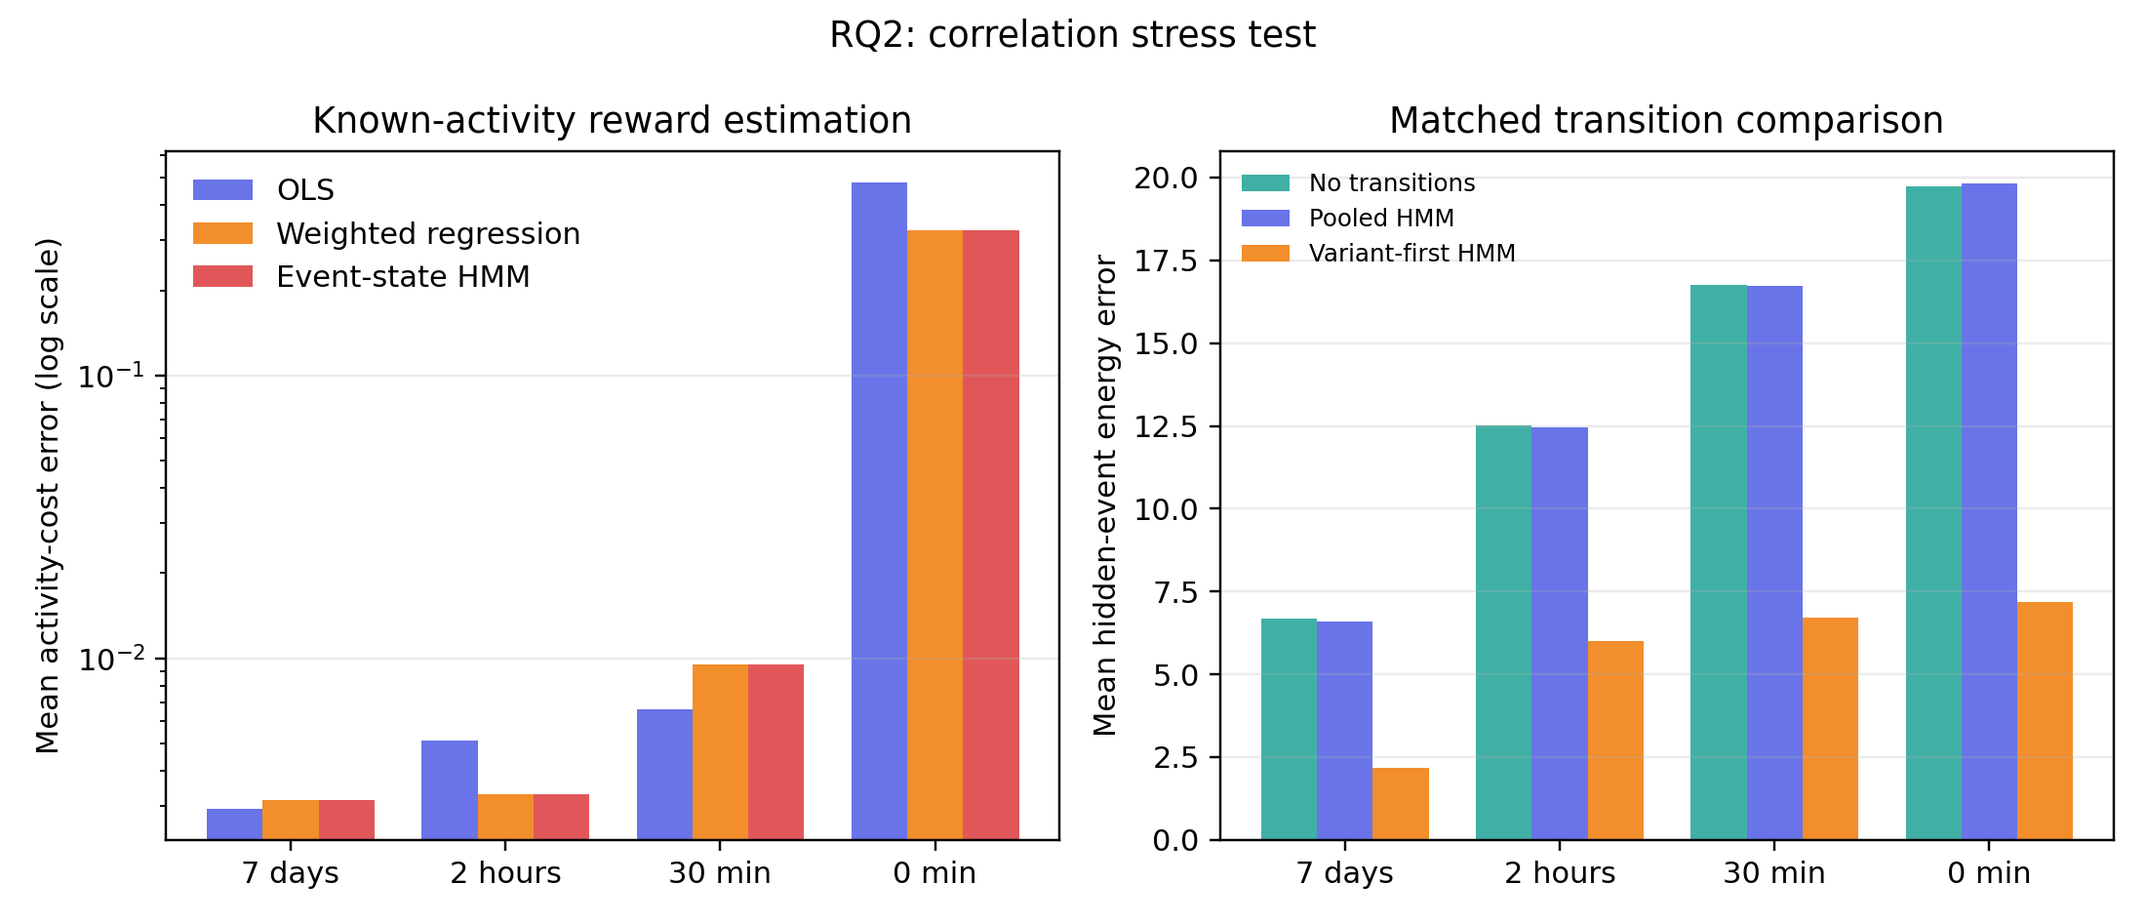
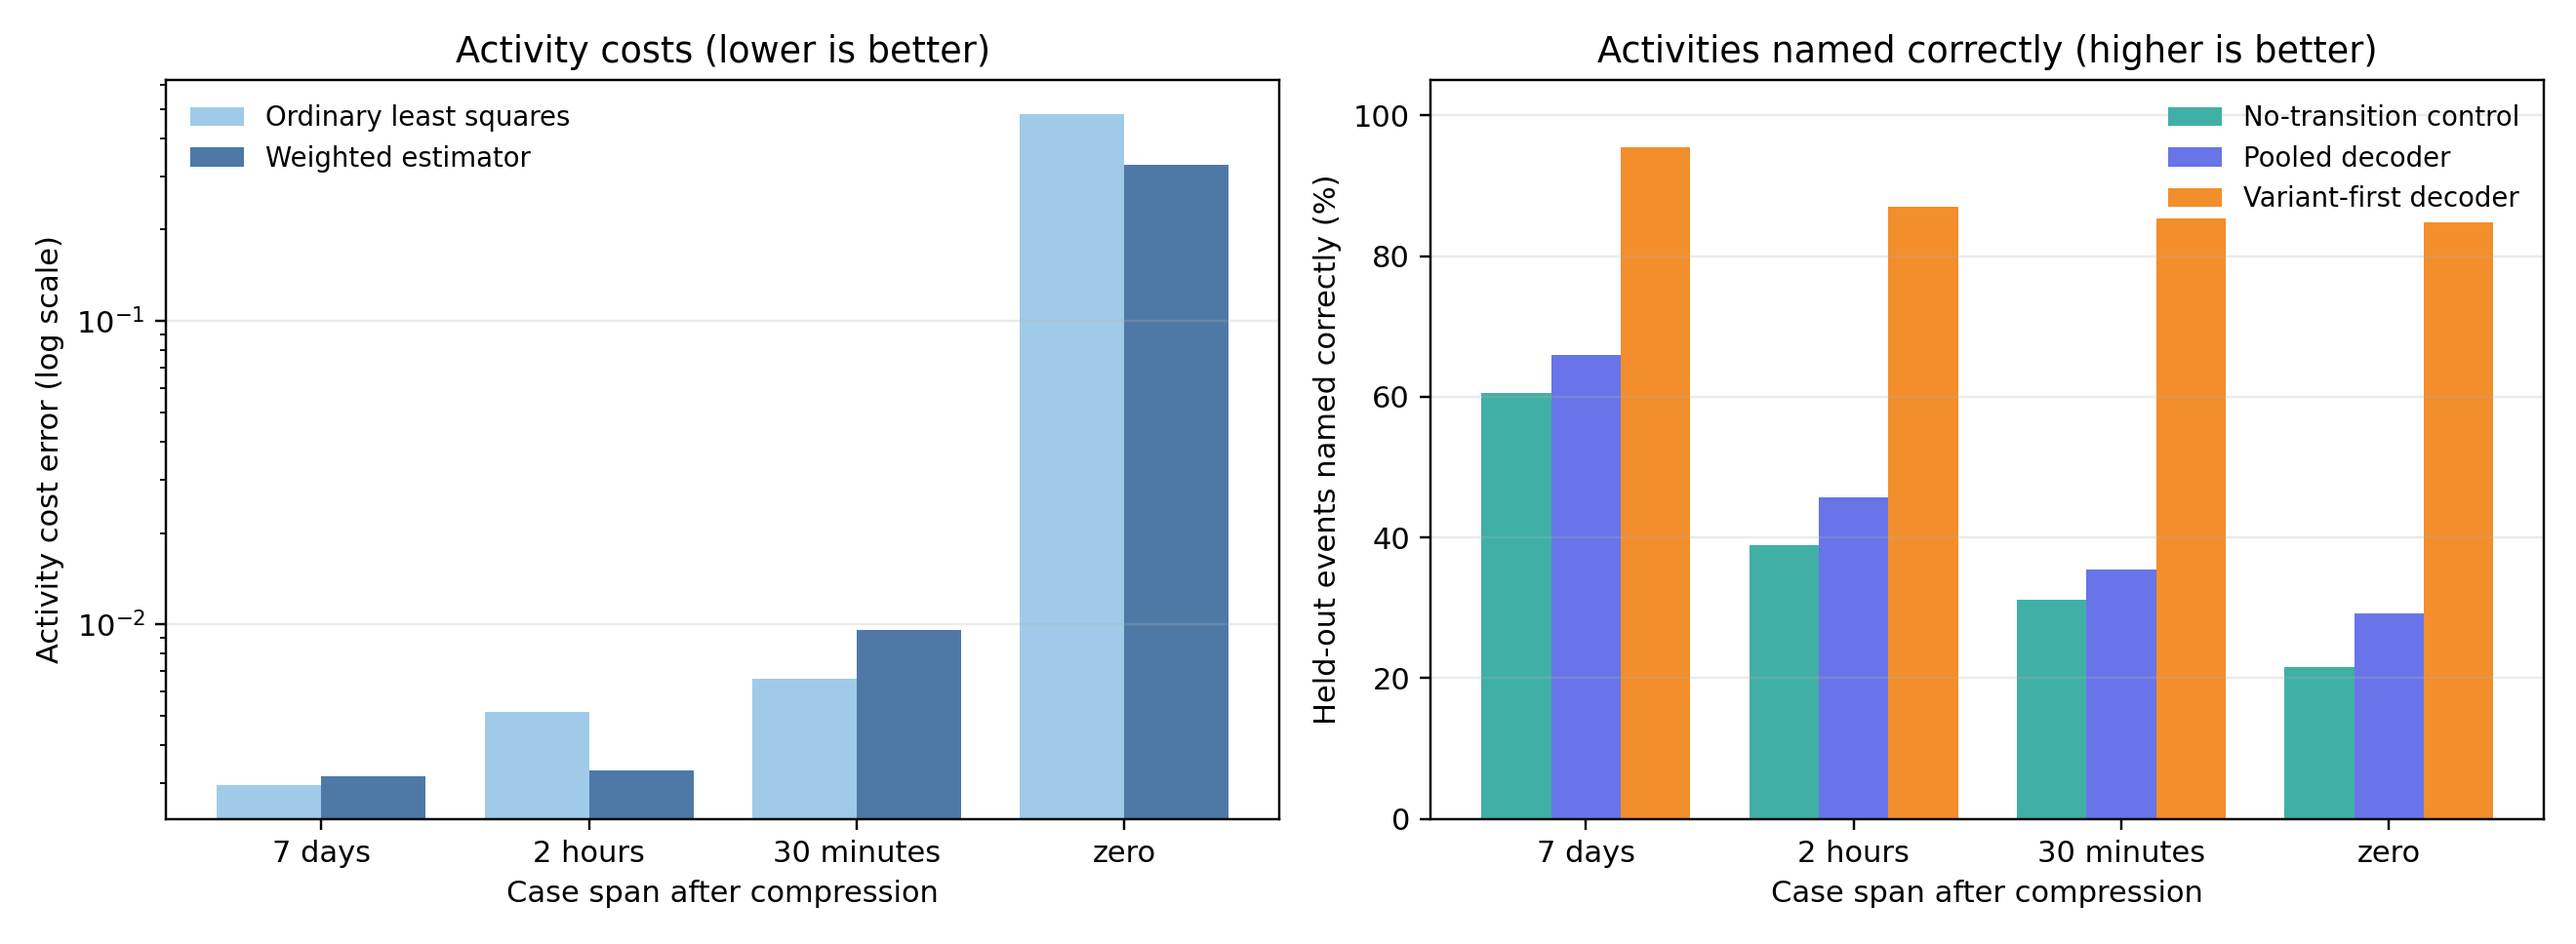
Redraw the stress test figure with costs and named activities

diff --git a/plot_results.py b/plot_results.py
@@ -95,53 +95,43 @@ def plot_main() -> None:
 
 
 def plot_rq2() -> None:
-    """Show reward and transition results as chains are compressed."""
+    """Costs and named activities as cases are compressed, median over the noise draws.
+
+    The attribution errors of the decoders are given in the thesis table, so the
+    right panel shows what the table does not: how many held-out activities each
+    decoder still names correctly.
+    """
     table = pd.read_csv(RESULTS / "rq2_correlation.csv")
     table = table.groupby("span_minutes", sort=False).median(numeric_only=True)
-    labels = ["7 days", "2 hours", "30 min", "0 min"]
-    figure, axes = plt.subplots(1, 2, figsize=(10, 4.3))
+    labels = ["7 days", "2 hours", "30 minutes", "zero"]
+    figure, axes = plt.subplots(1, 2, figsize=(12, 4.4))
     grouped_bars(
         axes[0],
         labels,
         [
-            ("OLS", table["ols_mean_cost_error"], "#6874E8"),
-            (
-                "Weighted regression",
-                table["weighted_regression_mean_cost_error"],
-                "#F28E2B",
-            ),
-            ("Event-state HMM", table["hmm_mean_cost_error"], "#E15759"),
+            ("Ordinary least squares", table["ols_mean_cost_error"], "#A0CBE8"),
+            ("Weighted estimator", table["weighted_regression_mean_cost_error"], "#4E79A7"),
         ],
-        "Mean activity-cost error (log scale)",
+        "Activity cost error (log scale)",
         log=True,
     )
-    axes[0].set_title("Known-activity reward estimation")
-    axes[0].legend(frameon=False)
+    axes[0].set_title("Activity costs (lower is better)")
+    axes[0].legend(frameon=False, fontsize=9, loc="upper left")
     grouped_bars(
         axes[1],
         labels,
         [
-            (
-                "No transitions",
-                table["independent_decoder_event_energy_mae"],
-                "#40B0A6",
-            ),
-            (
-                "Pooled HMM",
-                table["pooled_decoder_event_energy_mae"],
-                "#6874E8",
-            ),
-            (
-                "Variant-first HMM",
-                table["variant_decoder_event_energy_mae"],
-                "#F28E2B",
-            ),
+            ("No-transition control", 100 * table["independent_decoder_state_accuracy"], "#40B0A6"),
+            ("Pooled decoder", 100 * table["pooled_decoder_state_accuracy"], "#6874E8"),
+            ("Variant-first decoder", 100 * table["variant_decoder_state_accuracy"], "#F28E2B"),
         ],
-        "Mean hidden-event energy error",
+        "Held-out events named correctly (%)",
     )
-    axes[1].set_title("Matched transition comparison")
-    axes[1].legend(frameon=False, fontsize=8)
-    figure.suptitle("RQ2: correlation stress test")
+    axes[1].set_ylim(0, 105)
+    axes[1].set_title("Activities named correctly (higher is better)")
+    axes[1].legend(frameon=False, fontsize=9, loc="upper right")
+    for axis in axes:
+        axis.set_xlabel("Case span after compression")
     figure.tight_layout()
     save(figure, "rq2_correlation.png")
     plt.close(figure)
